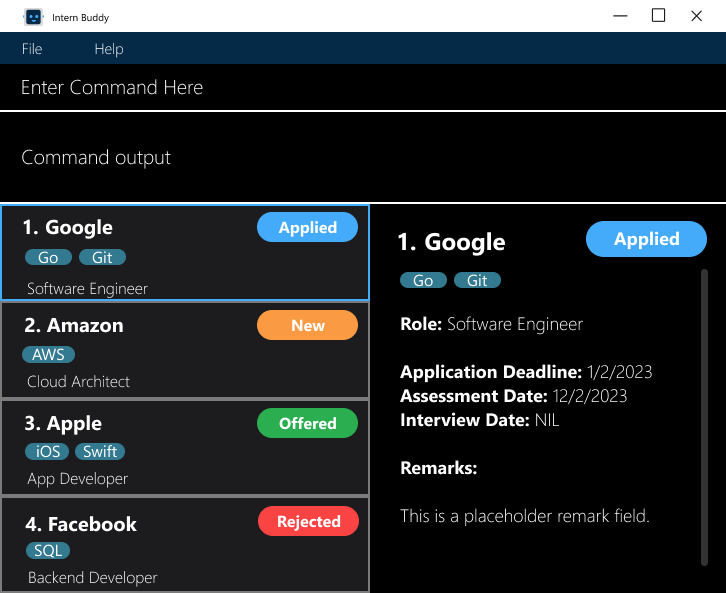
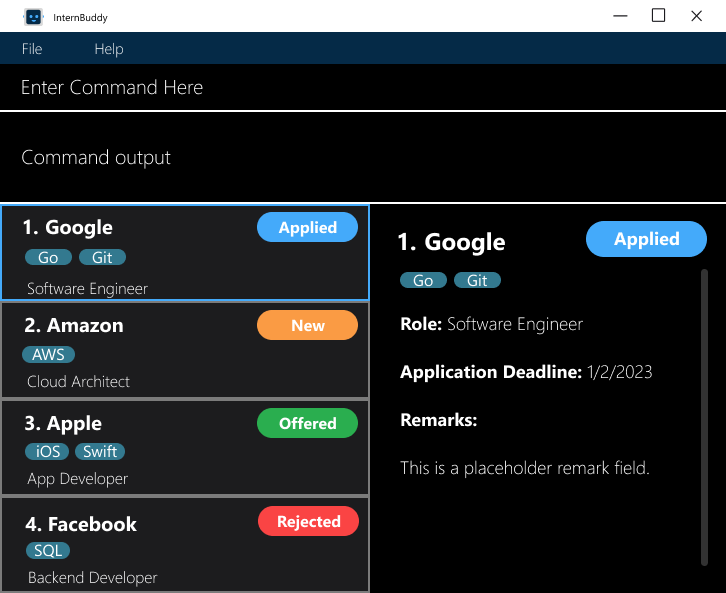
Fix bugs in README and AboutMe
Previously, there were inconsistencies between InternBuddy and
Intern Buddy.

Let's standardise the name of the application.

diff --git a/docs/AboutUs.md b/docs/AboutUs.md
@@ -7,7 +7,7 @@ We are team InternBuddy, and we are a team based in the [School of Computing, Na
 
 You can reach us at the email `seer[at]comp.nus.edu.sg`
 
-## Project team
+## Project Team
 
 ### Christopher Tan Rui Yang
 
@@ -19,7 +19,7 @@ You can reach us at the email `seer[at]comp.nus.edu.sg`
 * Role: Team Lead
 * Responsibilities: Testing
 
-### Eugene Tang Kangjie
+### Eugene Tang KangJie
 
 <img src="images/eugenetangkj.png" width="200px">
 
@@ -37,7 +37,7 @@ You can reach us at the email `seer[at]comp.nus.edu.sg`
 [[portfolio](team/kohkaixun.md)]
 
 * Role: Developer
-* Responsibilities: Code quality
+* Responsibilities: Code Quality
 
 ### Lim Hai Leong Shawn 
 
